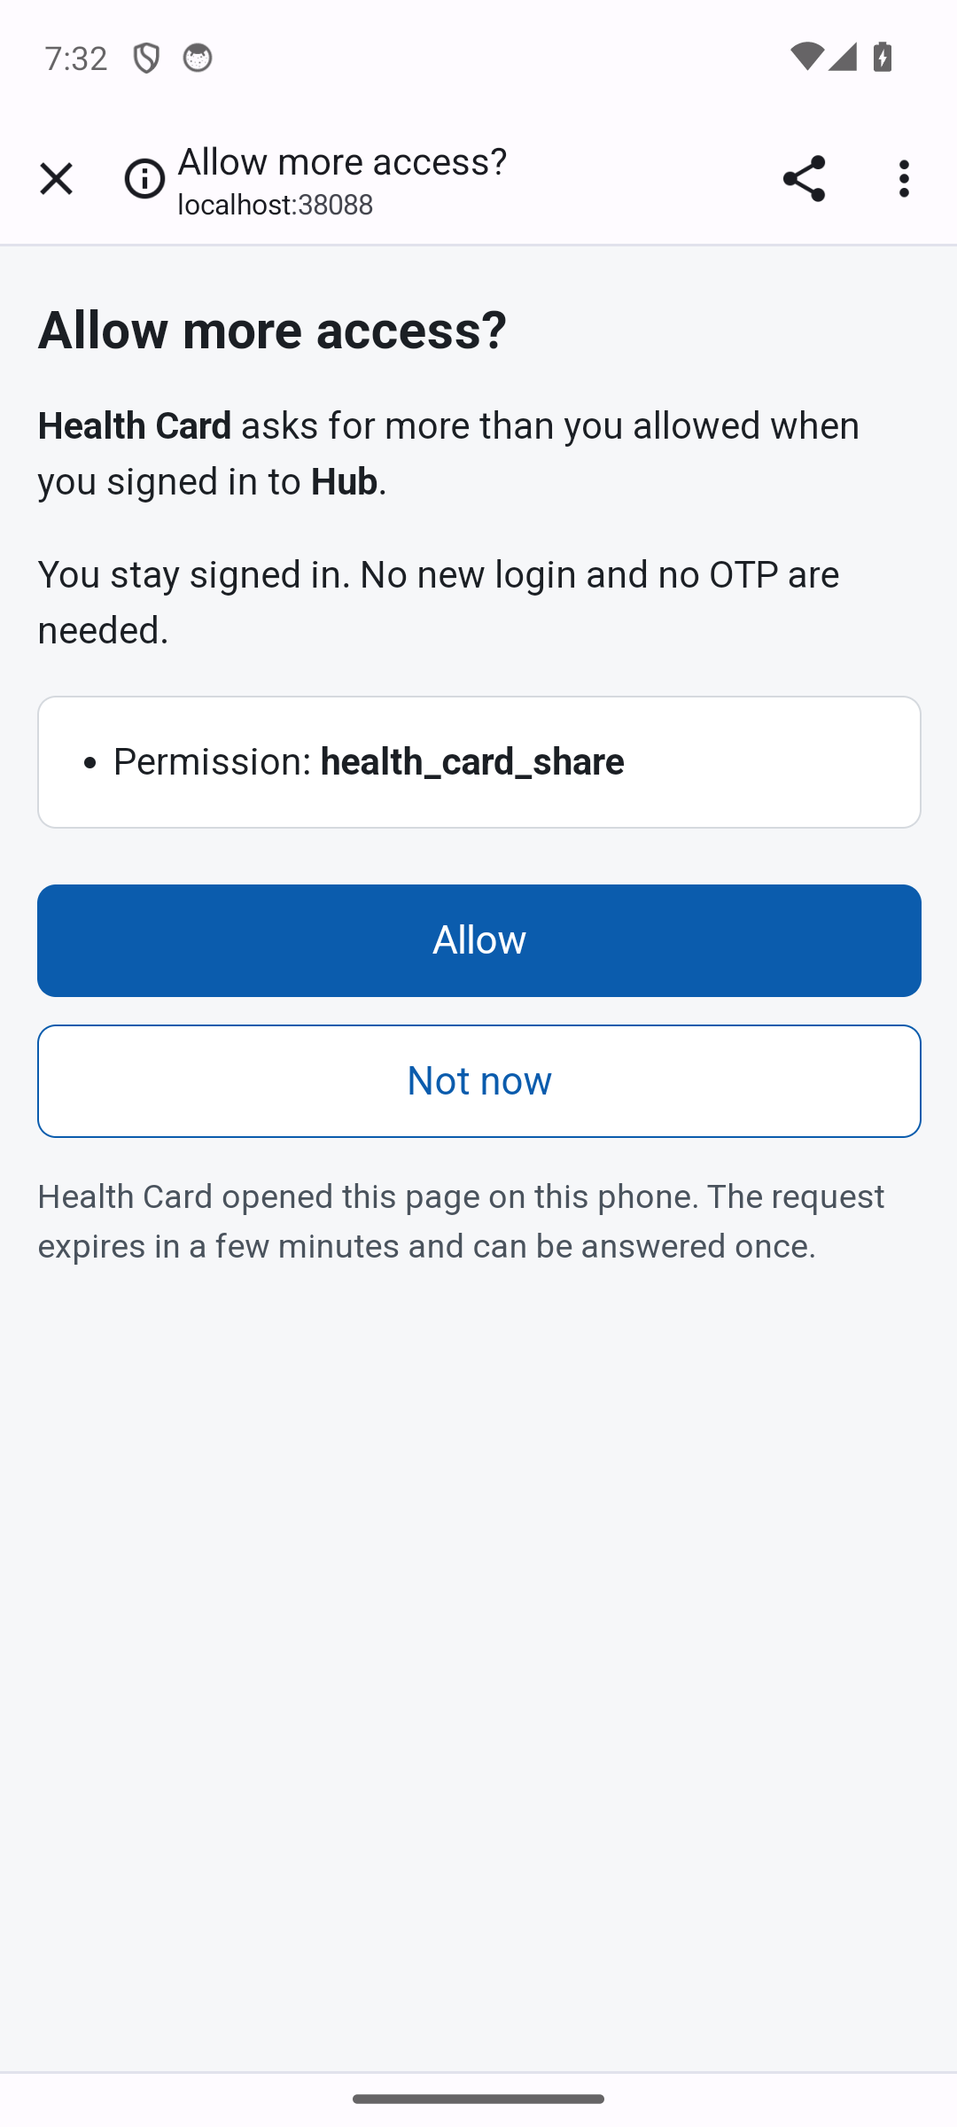
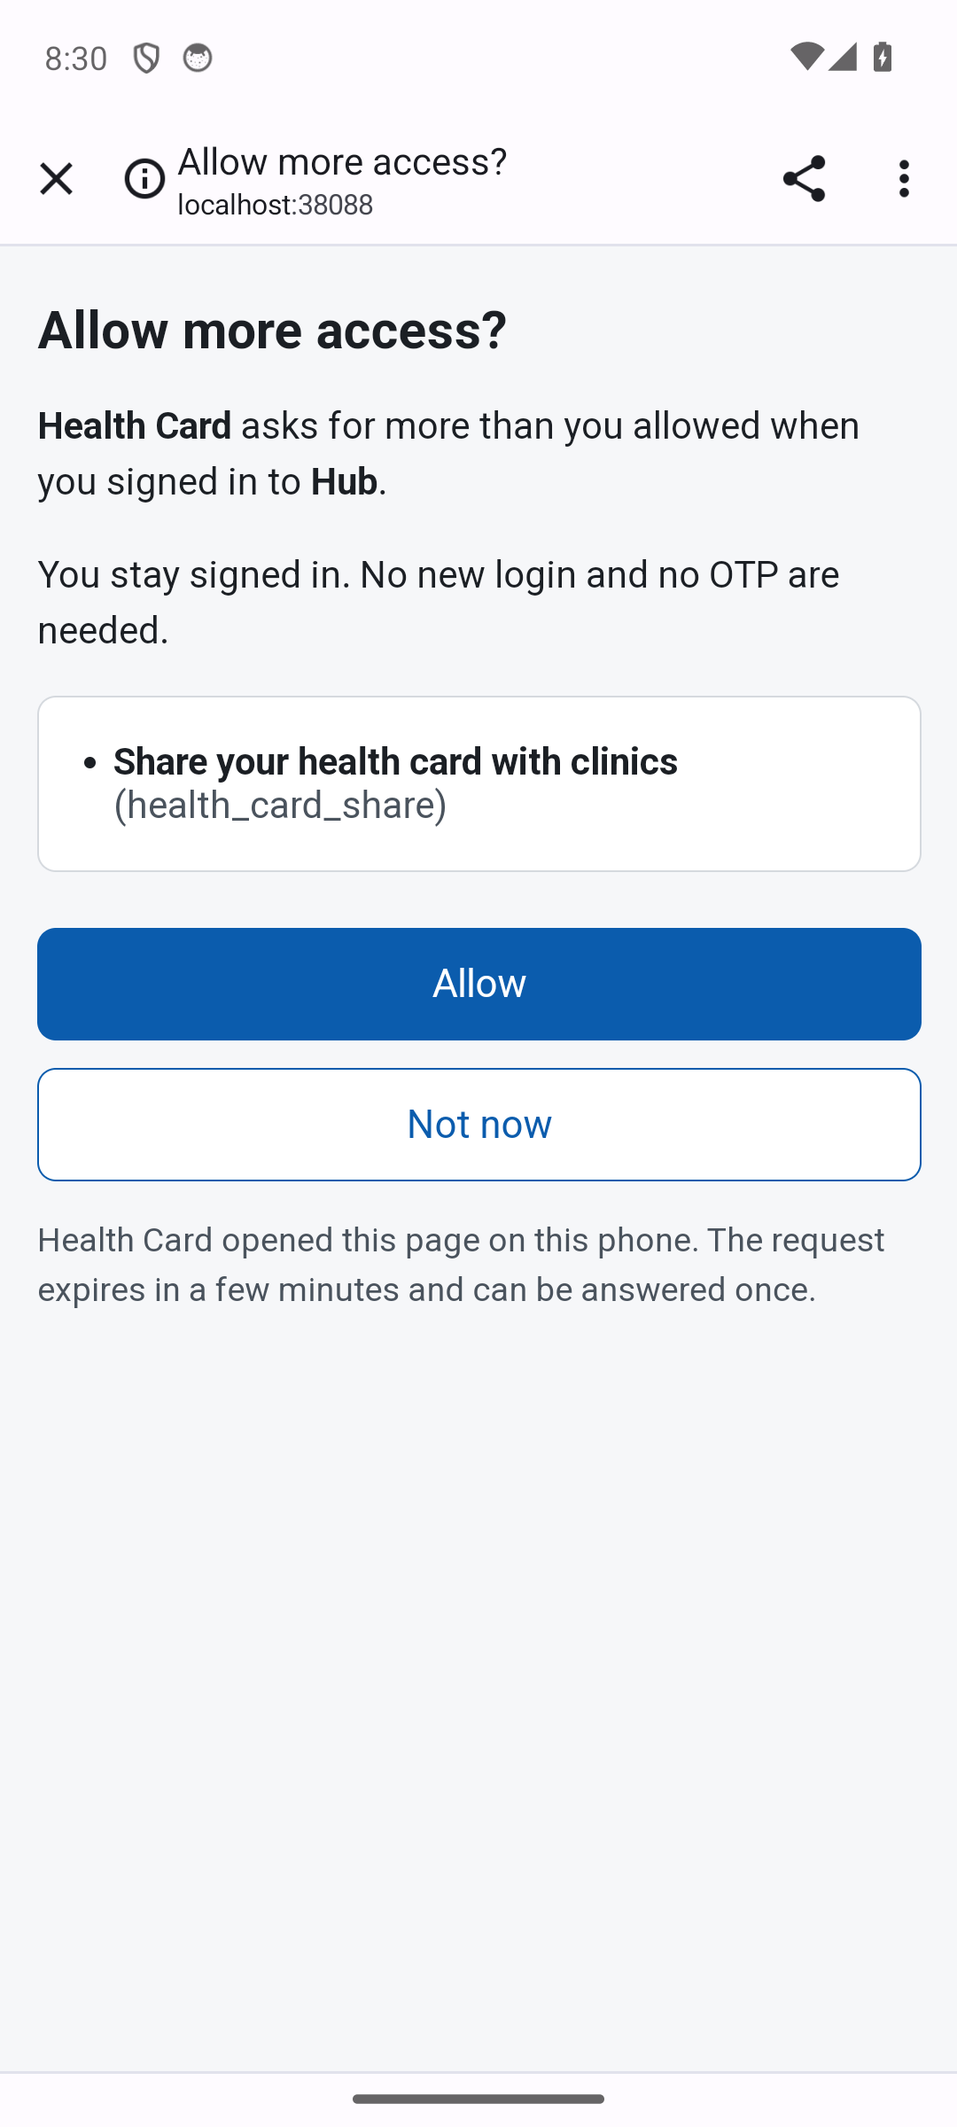
feat(thunder): show a configurable description per scope on the consent page
The consent-only re-consent page now shows the text set in oauth.native_sso.consent_scope_descriptions (env MOSIP_ESIGNET_NATIVE_SSO_CONSENT_SCOPE_DESCRIPTIONS) for a scope, and the raw scope value when none is set. Security headers and form behaviour are unchanged. The screenshot and the UX and test docs are updated.

Changed region(s): [[0.0306, 0.3438, 0.9778, 0.625]]

diff --git a/thunder/backend/internal/oauth/oauth2/nativesso/consent_page_test.go b/thunder/backend/internal/oauth/oauth2/nativesso/consent_page_test.go
@@ -37,7 +37,7 @@ type pageFixture struct {
 func newPageFixture(t *testing.T) *pageFixture {
 	f := &pageFixture{t: t, rs: newFakeRuntimeStore(), actor: actorprovidermock.NewActorProviderMock(t)}
 	f.store = NewConsentStore(f.rs)
-	f.handler = NewConsentPageHandler(f.store, f.actor, testBaseURL)
+	f.handler = NewConsentPageHandler(f.store, f.actor, testBaseURL, nil)
 	f.now = time.Unix(1900000000, 0)
 	f.handler.now = func() time.Time { return f.now }
 	f.mux = http.NewServeMux()
@@ -99,6 +99,31 @@ func assertPageHeaders(t *testing.T, rec *httptest.ResponseRecorder) {
 	assert.Contains(t, csp, "default-src 'none'")
 	assert.Contains(t, csp, "frame-ancestors 'none'")
 	assert.NotContains(t, csp, "script-src")
+}
+
+func TestConsentPage_ScopeDescriptions(t *testing.T) {
+	f := newPageFixture(t)
+	f.handler.descriptions = map[string]string{
+		"health_card_share": "Share your <health> card with clinics",
+		"email":             "  ",
+	}
+	f.expectNames("Health Card")
+	ticket := testTicket()
+	ticket.Scopes = []string{"health_card_share", "email", "other_scope"}
+	value := f.issue(ticket)
+
+	rec := f.get(value)
+
+	require.Equal(t, http.StatusOK, rec.Code)
+	assertPageHeaders(t, rec)
+	assert.Contains(t, rec.Header().Get("Content-Security-Policy"), "form-action 'self' org.example.card:")
+	body := rec.Body.String()
+	assert.Contains(t, body,
+		`<b>Share your &lt;health&gt; card with clinics</b> <span class="claims">(health_card_share)</span>`,
+		"a configured description is shown, escaped, with the scope value in small text")
+	assert.NotContains(t, body, "Permission: <b>health_card_share</b>")
+	assert.Contains(t, body, "Share: email", "a blank description falls back to the claims line")
+	assert.Contains(t, body, "Permission: <b>other_scope</b>", "no entry falls back to the raw value")
 }
 
 func TestConsentPage_GetShowsAppsAndScopes(t *testing.T) {
@@ -293,7 +318,7 @@ func TestConsentPage_BadRegisteredRedirect(t *testing.T) {
 }
 
 func TestConsentPage_SameOriginWithBadBaseURL(t *testing.T) {
-	h := NewConsentPageHandler(nil, nil, "not a url")
+	h := NewConsentPageHandler(nil, nil, "not a url", nil)
 	req := httptest.NewRequest(http.MethodPost, "/", nil)
 	req.Header.Set("Origin", "https://esignet.example")
 	assert.False(t, h.sameOrigin(req))
@@ -310,7 +335,7 @@ func TestRedirectSource(t *testing.T) {
 }
 
 func TestConsentPage_NilActorProvider(t *testing.T) {
-	h := NewConsentPageHandler(nil, nil, testBaseURL)
+	h := NewConsentPageHandler(nil, nil, testBaseURL, nil)
 	assert.Nil(t, h.client(context.Background(), "x"))
 	assert.Equal(t, "x", h.clientName(context.Background(), nil, "x"))
 }

diff --git a/thunder/backend/internal/oauth/oauth2/nativesso/consent_page.go b/thunder/backend/internal/oauth/oauth2/nativesso/consent_page.go
@@ -44,13 +44,17 @@ type ConsentPageHandler struct {
 	store         ConsentStoreInterface
 	actorProvider providers.ActorProvider
 	baseURL       string
+	descriptions  map[string]string
 	now           func() time.Time
 }
 
 // NewConsentPageHandler returns the handler of constants.OAuth2NativeSSOConsentEndpoint.
+// scopeDescriptions maps a scope value to the plain-language text the page shows for it
+// (NativeSSOConfig.ConsentScopeDescriptions); a scope without an entry is shown by its raw value.
 func NewConsentPageHandler(store ConsentStoreInterface, actorProvider providers.ActorProvider,
-	baseURL string) *ConsentPageHandler {
-	return &ConsentPageHandler{store: store, actorProvider: actorProvider, baseURL: baseURL, now: time.Now}
+	baseURL string, scopeDescriptions map[string]string) *ConsentPageHandler {
+	return &ConsentPageHandler{store: store, actorProvider: actorProvider, baseURL: baseURL,
+		descriptions: scopeDescriptions, now: time.Now}
 }
 
 // RegisterConsentRoutes registers the consent page. CORS is not enabled: only the browser opens it.
@@ -61,8 +65,9 @@ func RegisterConsentRoutes(mux *http.ServeMux, handler *ConsentPageHandler) {
 
 // consentScopeView is one line of the page.
 type consentScopeView struct {
-	Scope  string
-	Claims string
+	Scope       string
+	Description string
+	Claims      string
 }
 
 type consentPageView struct {
@@ -102,8 +107,9 @@ func (h *ConsentPageHandler) HandleGet(w http.ResponseWriter, r *http.Request) {
 	}
 	for _, scope := range ticket.Scopes {
 		view.Scopes = append(view.Scopes, consentScopeView{
-			Scope:  scope,
-			Claims: strings.Join(ScopeClaimNames(scope, app), ", "),
+			Scope:       scope,
+			Description: strings.TrimSpace(h.descriptions[scope]),
+			Claims:      strings.Join(ScopeClaimNames(scope, app), ", "),
 		})
 	}
 	h.writeHeaders(w, ticket.RedirectURI)
@@ -324,7 +330,8 @@ var consentPageTemplate = template.Must(template.New("consent").Parse(`<!doctype
 <p><b>{{.AppName}}</b> asks for more than you allowed when you signed in to <b>{{.FirstAppName}}</b>.</p>
 <p>You stay signed in. No new login and no OTP are needed.</p>
 <ul aria-labelledby="title">
-{{range .Scopes}}<li>{{if .Claims}}Share: {{.Claims}} <span class="claims">({{.Scope}})</span>
+{{range .Scopes}}<li>{{if .Description}}<b>{{.Description}}</b> <span class="claims">({{.Scope}})</span>
+{{- else if .Claims}}Share: {{.Claims}} <span class="claims">({{.Scope}})</span>
 {{- else}}Permission: <b>{{.Scope}}</b>{{end}}</li>
 {{end}}</ul>
 <form method="post" action="{{.Action}}">

diff --git a/esignet/esignet-service/internal/config/native_sso_test.go b/esignet/esignet-service/internal/config/native_sso_test.go
@@ -24,6 +24,7 @@ var nativeSSOEnvVars = []string{
 	"MOSIP_ESIGNET_NATIVE_SSO_EXCHANGE_ONLY",
 	"MOSIP_ESIGNET_NATIVE_SSO_CONSENT_ONLY_RECONSENT",
 	"MOSIP_ESIGNET_NATIVE_SSO_CONSENT_TICKET_TTL_SECONDS",
+	"MOSIP_ESIGNET_NATIVE_SSO_CONSENT_SCOPE_DESCRIPTIONS",
 }
 
 // NativeSSOConfigTestSuite covers the native_sso and oauth.native_sso settings of OpenID Connect
@@ -178,4 +179,25 @@ func (ts *NativeSSOConfigTestSuite) TestShippedDeploymentYAML() {
 	// scope_claims keys become every client's allowed scopes, so device_sso must never be one:
 	// a client gets it only through its own allowed_authorization_scopes.
 	ts.NotContains(cfg.ScopeClaims, "device_sso")
+}
+
+func (ts *NativeSSOConfigTestSuite) TestApplyNativeSSODefaults_ConsentScopeDescriptions() {
+	yamlValue := map[string]string{"health_card_share": "from yaml"}
+
+	cfg := &AppConfig{}
+	cfg.OAuth.NativeSSO.ConsentScopeDescriptions = yamlValue
+	applyNativeSSODefaults(cfg)
+	ts.Equal(yamlValue, cfg.OAuth.NativeSSO.ConsentScopeDescriptions, "yaml kept when no env var")
+
+	ts.T().Setenv("MOSIP_ESIGNET_NATIVE_SSO_CONSENT_SCOPE_DESCRIPTIONS", `{"health_card_share":"from env"}`)
+	cfg = &AppConfig{}
+	cfg.OAuth.NativeSSO.ConsentScopeDescriptions = yamlValue
+	applyNativeSSODefaults(cfg)
+	ts.Equal(map[string]string{"health_card_share": "from env"}, cfg.OAuth.NativeSSO.ConsentScopeDescriptions)
+
+	ts.T().Setenv("MOSIP_ESIGNET_NATIVE_SSO_CONSENT_SCOPE_DESCRIPTIONS", `not json`)
+	cfg = &AppConfig{}
+	cfg.OAuth.NativeSSO.ConsentScopeDescriptions = yamlValue
+	applyNativeSSODefaults(cfg)
+	ts.Equal(yamlValue, cfg.OAuth.NativeSSO.ConsentScopeDescriptions, "a bad env value keeps the yaml setting")
 }

diff --git a/esignet/esignet-service/internal/config/native_sso.go b/esignet/esignet-service/internal/config/native_sso.go
@@ -7,8 +7,10 @@
 package config
 
 import (
+	"encoding/json"
 	"errors"
 	"fmt"
+	"os"
 	"strings"
 
 	engineconfig "github.com/thunder-id/thunderid/pkg/thunderidengine/config"
@@ -97,4 +99,21 @@ func applyNativeSSODefaults(cfg *AppConfig) {
 		cfg.OAuth.NativeSSO.ConsentOnlyReconsent)
 	cfg.OAuth.NativeSSO.ConsentTicketTTLSeconds = int64(envIntOrConfigOrDefault(
 		"MOSIP_ESIGNET_NATIVE_SSO_CONSENT_TICKET_TTL_SECONDS", int(cfg.OAuth.NativeSSO.ConsentTicketTTLSeconds), 0))
+	cfg.OAuth.NativeSSO.ConsentScopeDescriptions = scopeDescriptionsFromEnv(
+		os.Getenv("MOSIP_ESIGNET_NATIVE_SSO_CONSENT_SCOPE_DESCRIPTIONS"),
+		cfg.OAuth.NativeSSO.ConsentScopeDescriptions)
+}
+
+// scopeDescriptionsFromEnv returns the descriptions in raw, a JSON object of scope to text, or
+// fromYAML when raw is empty or is not such an object (a bad value never hides the yaml setting).
+func scopeDescriptionsFromEnv(raw string, fromYAML map[string]string) map[string]string {
+	if strings.TrimSpace(raw) == "" {
+		return fromYAML
+	}
+	var parsed map[string]string
+	if err := json.Unmarshal([]byte(raw), &parsed); err != nil {
+		fmt.Fprintf(os.Stderr, "MOSIP_ESIGNET_NATIVE_SSO_CONSENT_SCOPE_DESCRIPTIONS ignored: %v\n", err)
+		return fromYAML
+	}
+	return parsed
 }

diff --git a/thunder/backend/pkg/thunderidengine/config/config.go b/thunder/backend/pkg/thunderidengine/config/config.go
@@ -386,6 +386,10 @@ type NativeSSOConfig struct {
 	// ConsentTicketTTLSeconds is how long a consent_uri can be used: 0 means
 	// DefaultNativeSSOConsentTicketTTLSeconds; at most MaxNativeSSOConsentTicketTTLSeconds.
 	ConsentTicketTTLSeconds int64 `yaml:"consent_ticket_ttl_seconds" json:"consent_ticket_ttl_seconds"`
+	// ConsentScopeDescriptions maps a scope value to the plain-language text the consent page shows
+	// for it, for example health_card_share to "Share your health card with clinics". A scope with no
+	// entry is shown by its raw value.
+	ConsentScopeDescriptions map[string]string `yaml:"consent_scope_descriptions" json:"consent_scope_descriptions"`
 }
 
 // Limits of NativeSSOConfig.ConsentTicketTTLSeconds.

diff --git a/thunder/backend/internal/oauth/init.go b/thunder/backend/internal/oauth/init.go
@@ -106,7 +106,8 @@ func Initialize(
 	// page answers them. Both need the provider, the setting and the runtime store.
 	consentStore := newNativeSSOConsentStore(deviceSecretProvider, runtimeStore, cfg)
 	if consentStore != nil {
-		nativesso.RegisterConsentRoutes(mux, nativesso.NewConsentPageHandler(consentStore, actorProvider, cfg.BaseURL))
+		nativesso.RegisterConsentRoutes(mux, nativesso.NewConsentPageHandler(consentStore, actorProvider, cfg.BaseURL,
+			cfg.OAuth.NativeSSO.ConsentScopeDescriptions))
 	}
 
 	grantHandlerProvider := granthandlers.Initialize(

diff --git a/docs/test-report.md b/docs/test-report.md
@@ -44,8 +44,8 @@ bash scripts/with-stack.sh bash android/scripts/with-emulator.sh bash android/sc
 | Id | Check | Command | Result | Date | Detail |
 |---|---|---|---|---|---|
 | REPO-LINT | Repository lint | `bash scripts/repo-lint.sh` | PASS | 2026-10-06 | repo-lint: OK, 83 s |
-| UNIT-THUNDER | Thunder Go unit tests | `bash scripts/go-test.sh thunder/backend ./internal/oauth/... ./pkg/... --changed-cover` | PASS | 2026-10-06 | thunder/backend: 32 packages (0 failed, 0 without tests), 2434 tests: 2433 passed, 1 skipped, 0 failed; 65 s |
-| UNIT-ESIGNET | eSignet Go unit tests | `bash scripts/go-test.sh esignet/esignet-service ./... --changed-cover` | PASS | 2026-10-06 | esignet/esignet-service: 29 packages (0 failed, 0 without tests), 1593 tests: 1593 passed, 0 skipped, 0 failed; 89 s |
+| UNIT-THUNDER | Thunder Go unit tests | `bash scripts/go-test.sh thunder/backend ./internal/oauth/... ./pkg/... --changed-cover` | PASS | 2026-10-06 | thunder/backend: 32 packages (0 failed, 0 without tests), 2434 tests: 2433 passed, 1 skipped, 0 failed; 65 s; after the consent description change: internal/oauth/... 28 packages, 2161 tests, 2160 passed, 1 skipped, 0 failed (new TestConsentPage_ScopeDescriptions) |
+| UNIT-ESIGNET | eSignet Go unit tests | `bash scripts/go-test.sh esignet/esignet-service ./... --changed-cover` | PASS | 2026-10-06 | esignet/esignet-service: 29 packages (0 failed, 0 without tests), 1593 tests: 1593 passed, 0 skipped, 0 failed; 89 s; after the consent description change: internal/config 170 tests, 0 failed (new TestApplyNativeSSODefaults_ConsentScopeDescriptions) |
 | COVER-THUNDER | Thunder: coverage of changed lines | `bash scripts/go-test.sh thunder/backend ./internal/oauth/... ./pkg/... --changed-cover` | PASS | 2026-10-06 | total 668/676 statements on changed lines (98.8%) in 38 files |
 | COVER-ESIGNET | eSignet: coverage of changed lines | `bash scripts/go-test.sh esignet/esignet-service ./... --changed-cover` | PASS | 2026-10-06 | total 325/352 statements on changed lines (92.3%) in 10 files |
 | LINT-THUNDER | golangci-lint, Thunder | `bash scripts/go-lint.sh thunder/backend -- --timeout=30m` | PASS | 2026-10-06 | thunder/backend: OK (lines changed since import c4c54439d7aa), 89 s; rerun by hand at 19:59 IST after a line-length fix in consent_page_test.go (the --run pass at ef69358 found 1 lll issue) |
@@ -61,11 +61,11 @@ bash scripts/with-stack.sh bash android/scripts/with-emulator.sh bash android/sc
 | JVM-CARD | Android JVM tests, Health Card (childapp) | `bash gradlew :childapp:testDebugUnitTest` | PASS | 2026-10-06 | 62 tests, 0 failed, 0 skipped, 5 test classes |
 | APK-SIGN | Hub and Health Card carry one signing certificate | `bash android/scripts/verify-family-signing.sh debug` | PASS | 2026-10-06 | family-signing: OK a787b1f375864c00f3ff290e70f5d8da43ba6f7466c05eeb8cb84d151e200de0 |
 | UI-HUB | Emulator test: Hub sign-in (SuperAppSignInTest) | `bash scripts/with-stack.sh bash android/scripts/with-emulator.sh bash android/scripts/run-ui-test.sh superapp SuperAppSignInTest` | PASS | 2026-10-06 | SuperAppSignInTest: OK (1 test), 50.4 s; run-ui-test.sh all of 2026-10-06 (ended 19:34 IST, at ef69358): OK (6 tests); no lock directory used (AVD ps03_api34, API 34) |
-| UI-CARD | Emulator tests: Health Card silent sign-in, consent-only re-consent, re-consent with login, sign-out | `bash scripts/with-stack.sh bash android/scripts/with-emulator.sh bash android/scripts/run-ui-test.sh all` | PASS | 2026-10-06 | run-ui-test.sh all of 2026-10-06 (ended 19:34 IST, at ef69358): OK (6 tests): SuperAppSignInTest 50.4 s, ChildAppSilentSignInTest 10.3 s, ChildAppConsentOnlyTest 76.5 s (61 s of it the wait for Hub's rate window), ChildAppReconsentTest 37.0 s (with the "Not now" step), ChildAppSignOutTest 15.6 s, ChildAppHubMissingTest 10.6 s. Two earlier runs that evening failed: the consent page refused its own form (Chrome sends Origin: null under Referrer-Policy no-referrer; fixed in 0a03abc), then Hub's rate limit refused ChildAppReconsentTest right after the consent-only test (fixed in ef69358) |
+| UI-CARD | Emulator tests: Health Card silent sign-in, consent-only re-consent, re-consent with login, sign-out | `bash scripts/with-stack.sh bash android/scripts/with-emulator.sh bash android/scripts/run-ui-test.sh all` | PASS | 2026-10-06 | run-ui-test.sh all of 2026-10-06 (ended 19:34 IST, at ef69358): OK (6 tests): SuperAppSignInTest 50.4 s, ChildAppSilentSignInTest 10.3 s, ChildAppConsentOnlyTest 76.5 s (61 s of it the wait for Hub's rate window), ChildAppReconsentTest 37.0 s (with the "Not now" step), ChildAppSignOutTest 15.6 s, ChildAppHubMissingTest 10.6 s. Two earlier runs that evening failed: the consent page refused its own form (Chrome sends Origin: null under Referrer-Policy no-referrer; fixed in 0a03abc), then Hub's rate limit refused ChildAppReconsentTest right after the consent-only test (fixed in ef69358); rerun at the consent-description change on 2026-10-06 (second attempt): OK (6 tests), screenshot esignet-consent-only-page.png retaken and shows "Share your health card with clinics (health_card_share)"; the first attempt failed only because Chrome got a truncated UIN typed in Hub's login (SuperAppSignInTest timed out, the five tests that need Hub's sign-in followed) |
 | UI-FAMILY | Emulator tests: family binding, other certificate, permission takeover | `bash android/scripts/with-emulator.sh bash android/scripts/run-family-tests.sh` | PASS | 2026-10-06 | run-family-tests.sh of 2026-10-06 19:38: family-bind PASS, htu-allow-list PASS, signed-out PASS (ERROR_NOT_SIGNED_IN), intruder PASS (SecurityException), takeover PASS (install refused: INSTALL_FAILED_DUPLICATE_PERMISSION) |
 | DEMO-SERVER | Demo: server part | `bash scripts/demo/demo.sh --no-emulator` | PASS | 2026-10-06 | demo ready (server part only; emulator steps NOT RUN), teardown ok, 80 s |
 | DEMO-FULL | Demo: full check with the emulator | `bash scripts/demo/demo.sh --check` | PASS | 2026-10-06 | demo.sh --check of 2026-10-06 19:43 (at ef69358): demo ready, teardown ok, 321 s; no container left |
-| CI | GitHub Actions workflow .github/workflows/ci.yml | `push and read the run` | PASS | 2026-10-06 | hosted run 37464932756 at 48c0357 (push to main): repo-lint, go-unit Thunder and eSignet, go-lint Thunder and eSignet (with e2e), android-unit and e2e (30 passed, 0 failed) all success; https://github.com/Paradox-73/Enable_Native_SSO_in_eSignet_Go_for_Mobile_Apps/actions/runs/37464932756. Earlier hosted runs failed: docker --cpus 6 on a 2-CPU runner (fixed in 5724790), then the e2e evidence folder move (fixed in b52a93f) |
+| CI | GitHub Actions workflow .github/workflows/ci.yml | `push and read the run` | PASS | 2026-10-06 | hosted run 37464932756 at 48c0357 (push to main): repo-lint, go-unit Thunder and eSignet, go-lint Thunder and eSignet (with e2e), android-unit and e2e (30 passed, 0 failed) all success; https://github.com/Paradox-73/Enable_Native_SSO_in_eSignet_Go_for_Mobile_Apps/actions/runs/37464932756. Run 37479943633 at 172b45b (push to main) also passed, all jobs success. Earlier hosted runs failed: docker --cpus 6 on a 2-CPU runner (fixed in 5724790), then the e2e evidence folder move (fixed in b52a93f) |
 | CI-LINUX | Every job of .github/workflows/ci.yml replayed on Linux containers (fresh clone) | `see docs/test-report.md, CI replay on Linux` | PASS | 2026-10-05 | fresh clone per job: go-unit Thunder 2379 tests and eSignet 1588 tests, 0 failed, go-lint Thunder, eSignet and e2e 0 issues (all at 0504874, Linux container on the Docker daemon); e2e 30 passed, 0 failed (a401c91); android-unit BUILD SUCCESSFUL (eclipse-temurin:17, SDK 34: four JVM test tasks, assembleDebug, lintDebug) at 259b9d1 and again at 551816f; repo-lint OK with shellcheck (ubuntu:24.04, full history) at 5b23d9c |
 
 ## Rule matrix
@@ -146,7 +146,7 @@ Rules R01-R28 are the server rules and A01-A13 the app rules of [design.md secti
 ## Known limits
 
 - **L01**: The emulator's Android Keystore is software-backed, so the key protection of the stored tokens is not hardware-backed there.
-- **L02**: Re-consent for new user data (Health Card's phone number) asks for the ID and OTP again: eSignet's identity system releases user data only after an authentication, and eSignet Go keeps no browser session; Health Card's explainer screen says so. Extra scopes that need no new user data (the permission health_card_share) are approved on eSignet's consent page with no login (rule R28). The consent page names a permission by its scope value, not by the resource server's description.
+- **L02**: Re-consent for new user data (Health Card's phone number) asks for the ID and OTP again: eSignet's identity system releases user data only after an authentication, and eSignet Go keeps no browser session; Health Card's explainer screen says so. Extra scopes that need no new user data (the permission health_card_share) are approved on eSignet's consent page with no login (rule R28). The consent page names a permission by the text configured in `consent_scope_descriptions` (health_card_share: "Share your health card with clinics"), and by the raw scope value when no text is configured.
 - **L03**: The server's runtime store is in memory, so an eSignet restart ends every Hub session; the e2e suite uses this to test the ended session.
 - **L04**: Revoking the device secret (rule R27, Hub "Sign out of all apps") ends its session record, but access tokens already issued to Health Card stay valid until they expire: eSignet keeps the token deny list off. Without network the record ends by its time to live; the deleted DPoP key already blocks every use.
 - **L05**: Hosted CI is read through the GitHub REST API with the team's login; the repository is private until submission, so the run page needs access to the repository. Every job was also replayed on Linux containers here (row CI-LINUX).

diff --git a/docs/ux.md b/docs/ux.md
@@ -124,8 +124,7 @@ Signed out of Health Card: "You signed out of Health Card. Hub is still signed i
   authentication (limit L02).
 - eSignet's consent page is the server's own page, not Health Card's: the app cannot claim the user said yes. It
   names both apps, uses the same 48 dp buttons and a readable font size, and needs no script.
-- Gap: the consent page shows the permission by its scope value (`health_card_share`); a friendly text from the
-  resource server's description is not wired yet.
+- The consent page shows each permission with a plain-language text from the setting `oauth.native_sso.consent_scope_descriptions` in `deployment.yaml` (or the env var `MOSIP_ESIGNET_NATIVE_SSO_CONSENT_SCOPE_DESCRIPTIONS`, a JSON object of scope to text), with the scope value in small type behind it. `health_card_share` reads "Share your health card with clinics". A scope with no entry is shown by its raw value, as before. See [the page](screens/esignet-consent-only-page.png).
 - The switch "Share this sign-in with my other apps" is off by default in Hub (the user opts in) and decides whether the `device_sso` scope is
   requested at all; with it off Hub behaves as an ordinary sign-in app and Health Card shows the Hub-first state.
 - Hub lists the apps that used its sign-in by the name the launcher shows, with the time of last use, never a token
